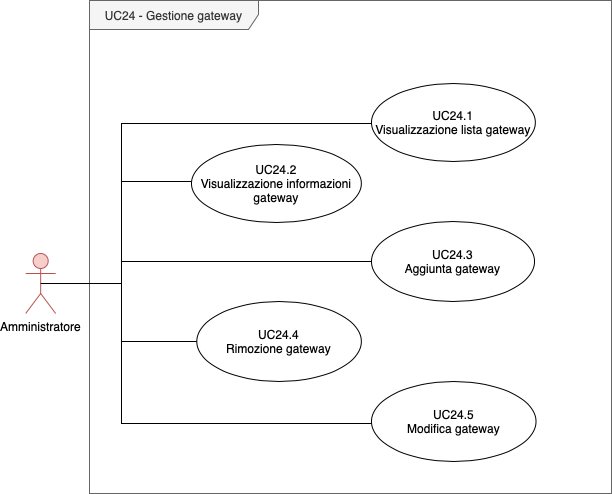
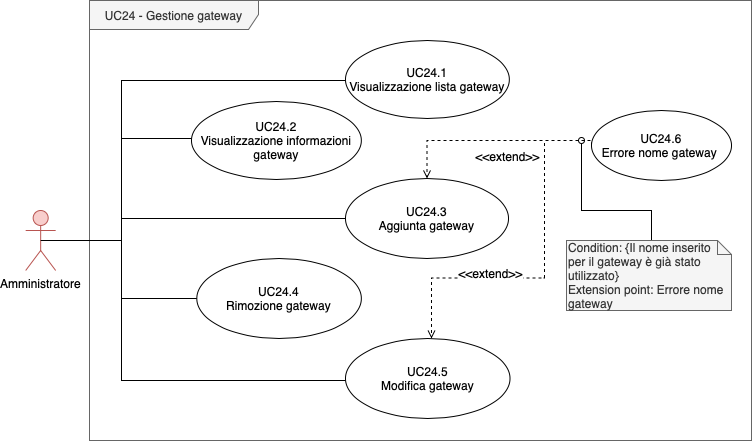
Modifiche AdR
Aggiunta estensione in UC 24 
Aggiunto UC 24.3.1
Modificato diagramma
Fix UC 5.3.5 e 5.4.4

diff --git a/esterni/analisi_requisiti/res/sections/Sez3-CasiDUso/uc5.tex b/esterni/analisi_requisiti/res/sections/Sez3-CasiDUso/uc5.tex
@@ -111,12 +111,12 @@
 				\paragraph{UC 5.3.5 - Inserimento nome gateway}
 				\begin{itemize}
 					\item \textbf{attori primari:} amministratore;
-					\item \textbf{descrizione:} per proseguire nella aggiunta di un nuovo dispositivo, l'utente deve inserire il nome del gateway;
+					\item \textbf{descrizione:} per proseguire nella aggiunta di un nuovo dispositivo, l'utente deve selezionare il gateway da una lista;
 					\item \textbf{precondizione:} l'utente sta inserendo le informazioni per aggiungere un nuovo dispositivo;
 					\item \textbf{postcondizione:} l'utente ha compilato un campo richiesto;
 					\item \textbf{scenario principale:}
 					\begin{enumerate}
-						\item{l'utente compila il campo \textit{gateway}.}
+						\item{l'utente seleziona il \textit{gateway} da una lista.}
 					\end{enumerate}
 				\end{itemize}
 
@@ -178,12 +178,12 @@
 				\paragraph{UC 5.4.4 - Modifica nome gateway}
 				\begin{itemize}
 					\item \textbf{attori primari:} amministratore;
-					\item \textbf{descrizione:} per proseguire nella modifica di un dispositivo, l'utente deve modificare il nome del gateway;
+					\item \textbf{descrizione:} per proseguire nella modifica di un dispositivo, l'utente deve modificare il nome del \glock{gateway} selezionandolo da una lista;
 					\item \textbf{precondizione:} l'utente sta modificando le informazioni di dispositivo già censito;
 					\item \textbf{postcondizione:} l'utente ha compilato un campo richiesto;
 					\item \textbf{scenario principale:}
 					\begin{enumerate}
-						\item{l'utente compila il campo \textit{gateway}.}
+						\item{l'utente seleziona il \textit{gateway} da una lista.}
 					\end{enumerate}
 				\end{itemize}
 
@@ -238,15 +238,4 @@
 				\end{enumerate}
 			\end{itemize}
 
-			\subsubsection{UC 5.9 - Errore formato identificativo dispositivo}
-			\begin{itemize}
-				\item \textbf{attori primari:} amministratore;
-				\item \textbf{descrizione:} l'utente visualizza un errore che segnala che il campo identificativo di un dispositivo non è valido;
-				\item \textbf{precondizione:} l'utente ha inserito un formato dell'identificativo di dispositivo errato;
-				\item \textbf{postcondizione:} l'utente visualizza un errore specifico;
-				\item \textbf{scenario principale:}
-				\begin{enumerate}
-					\item il sistema sta elaborando la richiesta;
-					\item viene visualizzato un errore che spiega che il formato utilizzato per l'identificativo del dispositivo non è corretto.
-				\end{enumerate}
-			\end{itemize}
+			s

diff --git a/esterni/analisi_requisiti/res/sections/Sez3-CasiDUso/CasiDUso.tex b/esterni/analisi_requisiti/res/sections/Sez3-CasiDUso/CasiDUso.tex
@@ -402,7 +402,22 @@
 					\item{l'amministratore inserisce le informazioni necessarie alla creazione di un nuovo gateway;}
 					\item{l'amministratore compila il campo \textit{nome gateway};}
 				\end{enumerate} 
+				\item \textbf{estensioni:}
+				\begin{itemize}
+					\item nome gateway non valido (UC 24.6).
+				\end{itemize}
+				
 			\end{itemize}
+				\paragraph{UC 24.3.1 - Inserimento nome gateway}
+					\begin{itemize}
+						\item \textbf{attori primari:} amministratore;
+						\item \textbf{descrizione:} per proseguire nell'inserimento di un nuovo gateway l'amministratore può deve inserire il campo \textit{nome gateway}. Il campo è obbligatorio;
+						\item \textbf{precondizione:} l'amministratore inserisce le informazioni necessarie alla creazione di un nuovo gateway;
+						\item \textbf{postcondizione:} l'amministratore ha inserito il nome del gateway;
+						\begin{enumerate}
+							\item{l'amministratore compila il campo \textit{nome gateway.}}
+						\end{enumerate} 
+					\end{itemize}
 
 			\subsubsection{UC 24.4 - Rimozione gateway}
 			\begin{itemize}
@@ -427,6 +442,10 @@
 					\item{l'amministratore modifica il campo \textit{nome gateway} (UC 24.5.1);}
 					\item{l'amministratore ha modificato un gateway.}
 				\end{enumerate} 
+				\item \textbf{estensioni:}
+				\begin{itemize}
+					\item nome gateway non valido (UC 24.6).
+				\end{itemize}
 			\end{itemize}
 
 				\paragraph{UC 24.5.1 - Modifica nome gateway}
@@ -439,5 +458,18 @@
 						\item{l'amministratore compila il campo \textit{nome gateway.}}
 					\end{enumerate} 
 				\end{itemize}
+
+			\subsubsection{UC 24.6 - Errore nome gateway}
+			\begin{itemize}
+				\item \textbf{attori primari:} amministratore;
+				\item \textbf{descrizione:} l'amministratore visualizza un errore che segnala che il campo \textit{nome gateway} di un gateway non è valido;
+				\item \textbf{precondizione:} l'utente ha inserito un nome per il gateway già assegnato;
+				\item \textbf{postcondizione:} l'utente visualizza un errore specifico;
+				\item \textbf{scenario principale:}
+				\begin{enumerate}
+					\item il sistema sta elaborando la richiesta;
+					\item viene visualizzato un errore che spiega che il nome inserito per il gateway è già stato inserito per un altro gateway.
+				\end{enumerate}
+			\end{itemize}
 			
 		
